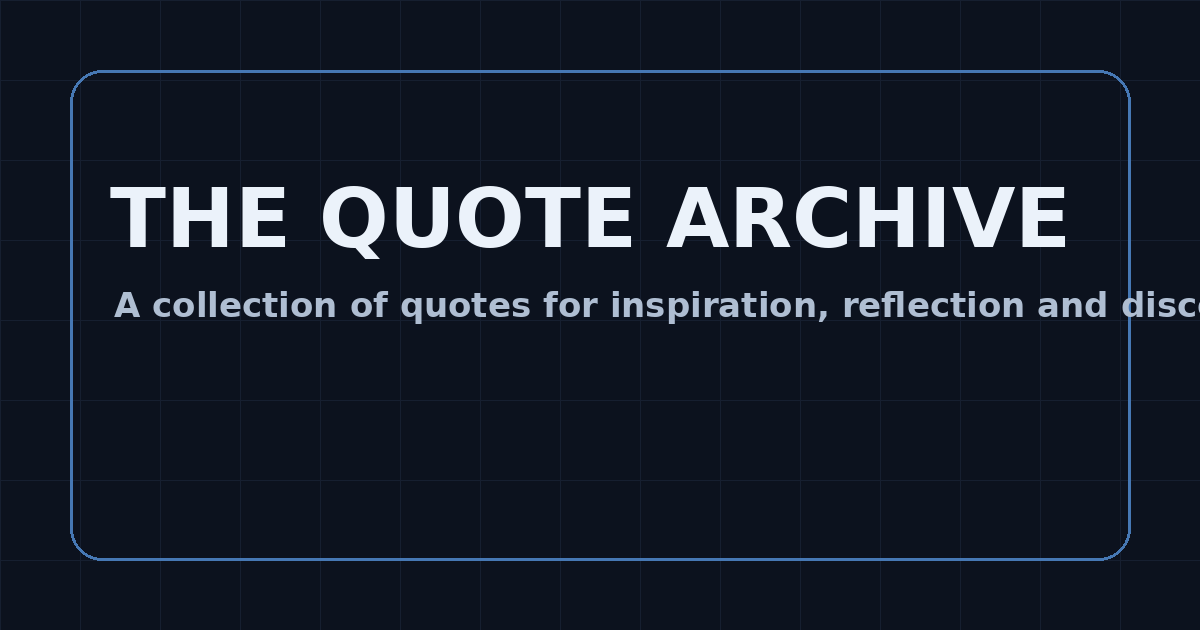
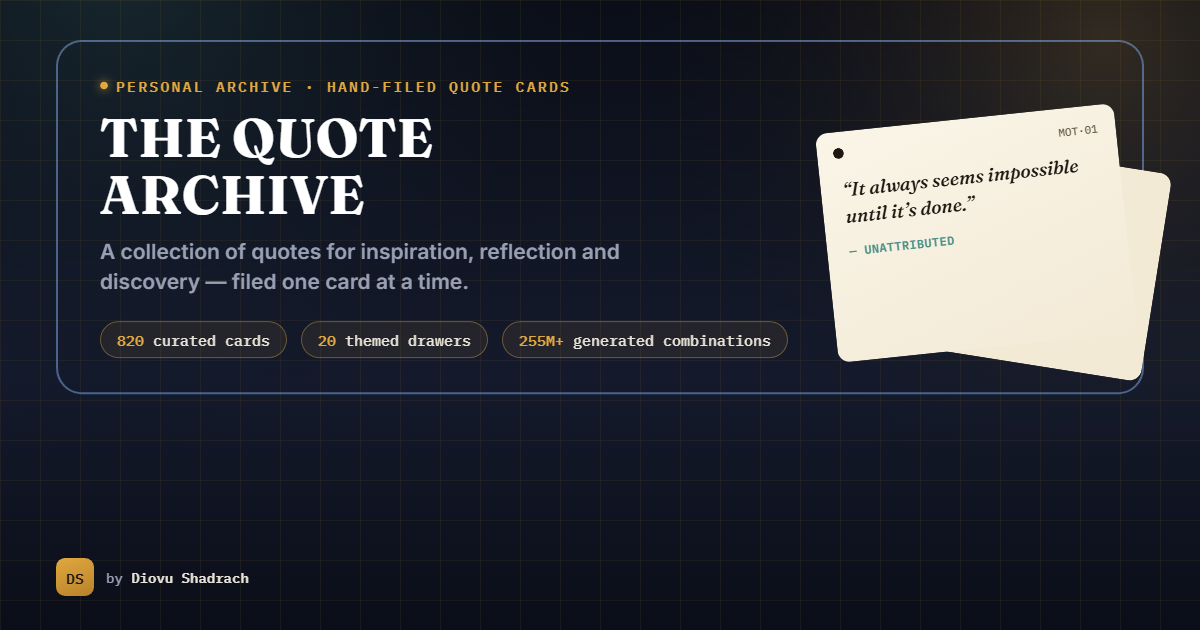
Add files via upload

Changed region(s): [[0.0308, 0.0, 1.0, 0.6333], [0.0308, 0.8746, 0.925, 0.9651]]

diff --git a/index.html b/index.html
@@ -482,6 +482,35 @@
   .badge .bname{font-weight:700;font-size:.92rem;margin:0 0 3px}
   .badge .bdesc{font-size:.78rem;color:var(--ink-muted);margin:0;line-height:1.4}
 
+  /* READING CALENDAR OVERLAY */
+  .calendar-overlay{
+    position:fixed;inset:0;z-index:210;display:none;align-items:center;justify-content:center;
+    background:rgba(6,8,14,.82);backdrop-filter:blur(6px);padding:20px;
+  }
+  .calendar-overlay.open{display:flex}
+  .calendar-panel{
+    max-width:820px;width:100%;max-height:85vh;overflow-y:auto;
+    background:var(--paper);color:var(--ink-text);border-radius:var(--radius-lg);
+    border:1px solid var(--line);box-shadow:var(--shadow-soft);padding:24px 26px;
+  }
+  .calendar-head{display:flex;justify-content:space-between;align-items:center;gap:12px;margin-bottom:6px}
+  .calendar-head h2{font-family:'Fraunces',serif;font-size:1.4rem;margin:0;display:flex;gap:8px;align-items:baseline}
+  .calendar-head .icon-btn{border-color:var(--line);background:rgba(0,0,0,.05);color:var(--ink-text)}
+  .calendar-stats{display:grid;grid-template-columns:repeat(auto-fit,minmax(130px,1fr));gap:10px;margin:14px 0 18px}
+  .calendar-stat{border:1px solid var(--line);border-radius:12px;padding:10px 12px;background:rgba(0,0,0,.03)}
+  .calendar-stat b{display:block;font-family:'Fraunces',serif;font-size:1.35rem;color:var(--gold)}
+  .calendar-stat span{font-size:.74rem;color:var(--ink-muted);text-transform:uppercase;letter-spacing:.04em}
+  .calendar-scroll{overflow-x:auto;padding-bottom:6px}
+  .calendar-grid{display:grid;grid-auto-flow:column;grid-template-rows:repeat(7,1fr);gap:3px;width:max-content}
+  .calendar-cell{
+    width:12px;height:12px;border-radius:3px;background:rgba(0,0,0,.06);border:1px solid var(--line);
+  }
+  .calendar-cell.visited{background:var(--gold);border-color:var(--gold)}
+  .calendar-cell.today{box-shadow:0 0 0 2px var(--teal)}
+  .calendar-legend{display:flex;align-items:center;gap:6px;margin-top:12px;font-size:.74rem;color:var(--ink-muted)}
+  .calendar-legend .calendar-cell{width:11px;height:11px}
+  .calendar-note{color:var(--ink-muted);margin:0 0 4px;font-size:.9rem}
+
   /* TOASTS */
   .toast-stack{position:fixed;top:16px;right:16px;z-index:300;display:flex;flex-direction:column;gap:10px;max-width:320px}
   .toast{
@@ -779,6 +808,7 @@
       <a href="#favorites">Favorites</a>
       <span class="streak-pill" id="streakPill" title="Consecutive days visited">🔥 — day streak</span>
       <button class="icon-btn" id="achieveBtn" type="button">🏅 <span id="achieveCount">0/15</span></button>
+      <button class="icon-btn" id="calendarBtn" type="button" title="View your reading calendar">📅 Calendar</button>
       <button class="icon-btn" id="soundBtn" type="button" aria-pressed="false" title="Toggle sound effects">🔇 Sound</button>
       <button class="icon-btn" id="installBtn" type="button" hidden>⬇ Install App</button>
       <button class="icon-btn" id="focusBtn" type="button">▣ Focus Mode</button>
@@ -1139,6 +1169,28 @@
     </div>
     <p style="color:var(--site-muted);margin:0 0 16px;font-size:.9rem">Badges earned just by using the archive — favoriting, downloading, weaving, and returning day after day. Everything is tracked locally in your browser.</p>
     <div class="achieve-grid" id="achieveGrid"></div>
+  </div>
+</div>
+
+<div class="calendar-overlay" id="calendarOverlay" role="dialog" aria-modal="true" aria-label="Reading calendar">
+  <div class="calendar-panel">
+    <div class="calendar-head">
+      <h2>Reading Calendar</h2>
+      <button class="icon-btn" id="calendarCloseBtn" type="button">✕ Close</button>
+    </div>
+    <p class="calendar-note">Every day you open the archive is filed here — a year of card-pulling at a glance. Tracked locally in your browser only.</p>
+    <div class="calendar-stats">
+      <div class="calendar-stat"><b id="calStatCurrent">0</b><span>Current streak</span></div>
+      <div class="calendar-stat"><b id="calStatLongest">0</b><span>Longest streak</span></div>
+      <div class="calendar-stat"><b id="calStatTotal">0</b><span>Days visited</span></div>
+      <div class="calendar-stat"><b id="calStatFav">—</b><span>Favorite day</span></div>
+    </div>
+    <div class="calendar-scroll">
+      <div class="calendar-grid" id="calendarGrid"></div>
+    </div>
+    <div class="calendar-legend">
+      <span>Less</span><span class="calendar-cell"></span><span class="calendar-cell visited"></span><span>More</span>
+    </div>
   </div>
 </div>
 
@@ -4680,6 +4732,76 @@ function updateStreak(){
   currentStreak = streak;
 }
 
+/* ===================== READING CALENDAR ===================== */
+const CAL_WEEKS = 53;
+const CAL_WEEKDAY_NAMES = ['Sun','Mon','Tue','Wed','Thu','Fri','Sat'];
+
+function computeLongestStreak(sortedKeys){
+  let longest = 0, run = 0, prevDate = null;
+  for(const key of sortedKeys){
+    const d = new Date(key+'T00:00:00');
+    run = (prevDate && Math.round((d - prevDate)/86400000) === 1) ? run+1 : 1;
+    if(run > longest) longest = run;
+    prevDate = d;
+  }
+  return longest;
+}
+
+function renderCalendar(){
+  let visits = safeReadJSON(VISIT_KEY, []);
+  if(!Array.isArray(visits)) visits = [];
+  const visitSet = new Set(visits);
+  const sortedKeys = [...visitSet].sort();
+
+  const today = new Date(); today.setHours(0,0,0,0);
+  const endOfWeek = new Date(today);
+  endOfWeek.setDate(today.getDate() + (6 - today.getDay()));
+  const start = new Date(endOfWeek);
+  start.setDate(endOfWeek.getDate() - (CAL_WEEKS*7 - 1));
+
+  const dayCounts = new Array(7).fill(0);
+  visitSet.forEach(key=>{ dayCounts[new Date(key+'T00:00:00').getDay()]++; });
+  let favIdx = 0;
+  for(let i=1;i<7;i++) if(dayCounts[i] > dayCounts[favIdx]) favIdx = i;
+
+  const cells = [];
+  const cursor = new Date(start);
+  while(cursor <= endOfWeek){
+    const key = localDateKey(cursor);
+    const visited = visitSet.has(key);
+    const isToday = key === localDateKey(today);
+    const isFuture = cursor > today;
+    const label = cursor.toLocaleDateString(undefined,{month:'short',day:'numeric',year:'numeric'});
+    cells.push(`<span class="calendar-cell${visited?' visited':''}${isToday?' today':''}${isFuture?' future':''}" title="${escapeHTML(label)}${visited?' · visited':''}"></span>`);
+    cursor.setDate(cursor.getDate()+1);
+  }
+
+  const grid = document.getElementById('calendarGrid');
+  if(grid) grid.innerHTML = cells.join('');
+
+  const statCurrent = document.getElementById('calStatCurrent');
+  const statLongest = document.getElementById('calStatLongest');
+  const statTotal = document.getElementById('calStatTotal');
+  const statFav = document.getElementById('calStatFav');
+  if(statCurrent) statCurrent.textContent = String(currentStreak);
+  if(statLongest) statLongest.textContent = String(computeLongestStreak(sortedKeys));
+  if(statTotal) statTotal.textContent = String(sortedKeys.length);
+  if(statFav) statFav.textContent = sortedKeys.length ? CAL_WEEKDAY_NAMES[favIdx] : '—';
+}
+
+const calendarBtn = document.getElementById('calendarBtn');
+const calendarOverlay = document.getElementById('calendarOverlay');
+if(calendarBtn && calendarOverlay){
+  const closeCalendar = ()=>{ calendarOverlay.classList.remove('open'); document.body.style.overflow=''; };
+  calendarBtn.addEventListener('click', ()=>{
+    renderCalendar();
+    calendarOverlay.classList.add('open');
+    document.body.style.overflow = 'hidden';
+    sfx.click();
+  });
+  document.getElementById('calendarCloseBtn').addEventListener('click', closeCalendar);
+  calendarOverlay.addEventListener('click', (e)=>{ if(e.target===calendarOverlay) closeCalendar(); });
+}
 
 /* ===================== MUSIC PLAYER ===================== */
 const MUSIC_TRACKS = [
@@ -5012,6 +5134,10 @@ document.addEventListener('keydown',(e)=>{
   if(e.key !== 'Escape') return;
   if(achieveOverlay.classList.contains('open')){
     achieveOverlay.classList.remove('open');
+    document.body.style.overflow='';
+  }
+  if(calendarOverlay.classList.contains('open')){
+    calendarOverlay.classList.remove('open');
     document.body.style.overflow='';
   }
   if(musicPanel.classList.contains('open')){
